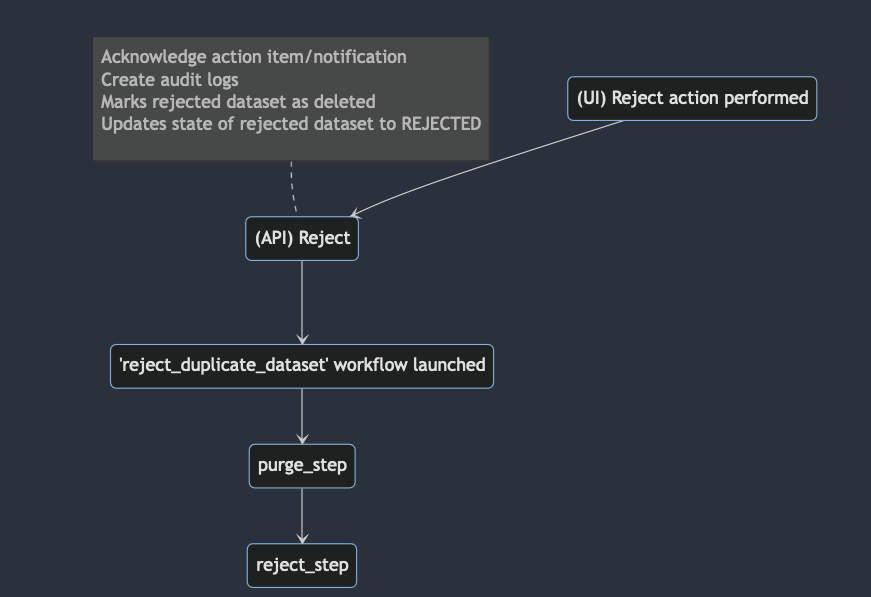
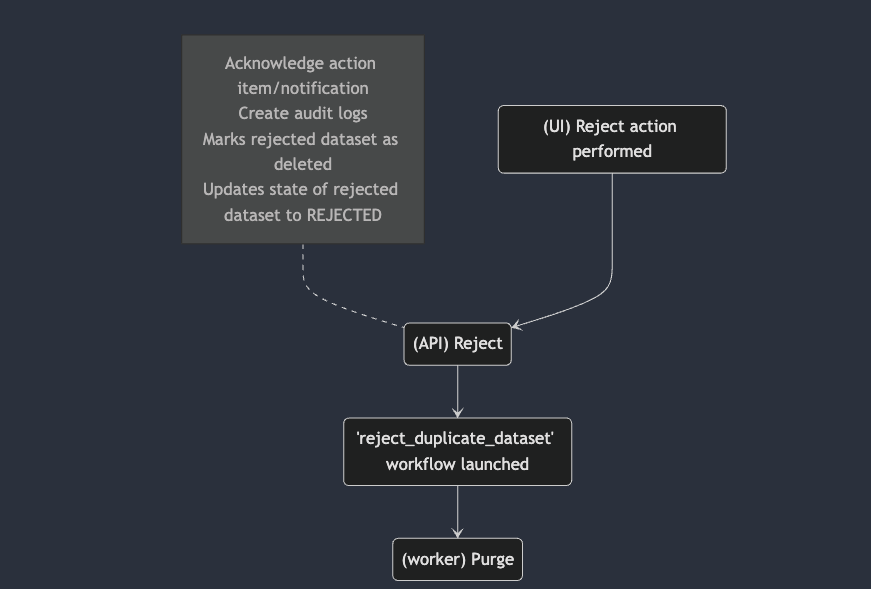
173 - docs update

diff --git a/docs/dataset_duplication.md b/docs/dataset_duplication.md
@@ -6,7 +6,9 @@ Bioloop allows for duplicate datasets to be registered in the system.
 
 ## Registration
 
-Duplicate datasets are registered by the `watch.py` script, if it finds a dataset present in the `source_dir` directory which has the same name and type as an existing active dataset.
+Duplicate datasets are registered by the `watch.py` script, if:
+- it finds a directory present in the `source_dir` directory which has the same name as an existing active dataset.
+- the modification time on the directory found is later than the time when a dataset with that directory's name was registered.
 
 The duplicate dataset is registered at the database level, and action items and notifications are created in the system which allows authorized users to review the duplicate dataset.
 
@@ -23,19 +25,21 @@ The results of the comparison analysis are shown to authorized users in the UI, 
 
 - The system is designed to handle multiple co-existing duplicates of the same dataset. However, for simplicity, this feature is disabled at the moment, and only one duplicate is allowed to exist in the system.
   - If enabled, multiple concurrent duplicates of a dataset will only be registered at the database level, not at the filesystem level.
+    - This would mean that if one duplicate is currently registered for a dataset, and a user later places another directory with the dataset's name at the dataset's `origin_path`, a second duplicate dataset with that name/type will be registered in the database, however, the contents of the first dataset's `origin_path` will be overwritten by the more recent duplicate.
 - If multiple duplicates of the same dataset are allowed to co-exist in the system, they will be assigned versions to differentiate between them.
 - Overwritten datasets are also assigned versions, in case a dataset is overwritten more than once.
 
 ### Action Items
 
-For each duplicate dataset registered by the system, an action item is created in the Postgres table `dataset_action_item`, and a notification is persisted to the `notification` table.
+For each duplicate dataset registered by the system, an action item is created in the Postgres table `dataset_action_item`, and a notification is persisted to the `notification` table. Each notification can be created for a specific user, or a specific role.
 
 Each action item is linked to multiple `dataset_ingestion_check` records, and each `dataset_ingestion_check` record represents the results of comparing a duplicate dataset with the original dataset based on a specific criteria.
 
-A dataset is compared with another based on 3 criteria:
-1. There are no files in either dataset that have the same name and path as a file in the other dataset, but a different MD5 checksum. 
-2. Original dataset has files that the duplicate dataset doesn't.
-3. Duplicate dataset has files that the original dataset doesn't.
+A dataset is compared with another based on 4 criteria:
+1. The number of files in both datasets match 
+2. There are no files in either dataset that have the same name and path as a file in the other dataset, but a different MD5 checksum. 
+3. Original dataset has files that the duplicate dataset doesn't.
+4. Duplicate dataset has files that the original dataset doesn't.
 
 ---
 
@@ -54,7 +58,7 @@ Only Operator and Admin roles are authorized to accept or reject an incoming dup
 <img src="assets/datasetDuplication/assets/accept_duplicate_steps.png" />
 
 When an authorized user accepts a duplicate dataset into the system, the following steps take place:
-1. The action item and notification corresponding to the duplicate dataset are marked as resolved and marked as inactive.
+1. The action item and notification corresponding to the duplicate dataset are marked as resolved.
 2. An audit log is created for the incoming duplicate dataset's acceptance, and another one for the original dataset's overwrite.
 3. Any other duplicates that may have been created for the original dataset are rejected, and their action items and notifications are resolved. 
 4. The original dataset is deleted from the system by marking it as deleted in the database (i.e. setting its `is_deleted` to `true`).
@@ -69,7 +73,7 @@ When an authorized user accepts a duplicate dataset into the system, the followi
 <img src="assets/datasetDuplication/assets/reject_duplicate_steps.png" />
 
 When an authorized user rejects a duplicate dataset from the system, the following steps take place:
-1. The action item and notification corresponding to the duplicate dataset are acknowledged.
+1. The action item and notification corresponding to the duplicate dataset are resolved.
 2. An audit log is created for the incoming duplicate dataset's rejection.
 3. The state of the rejected dataset is changed to `DUPLICATE_REJECTED`
 4. The rejected dataset is marked as deleted in the database (by setting its `is_deleted` to `true`).
